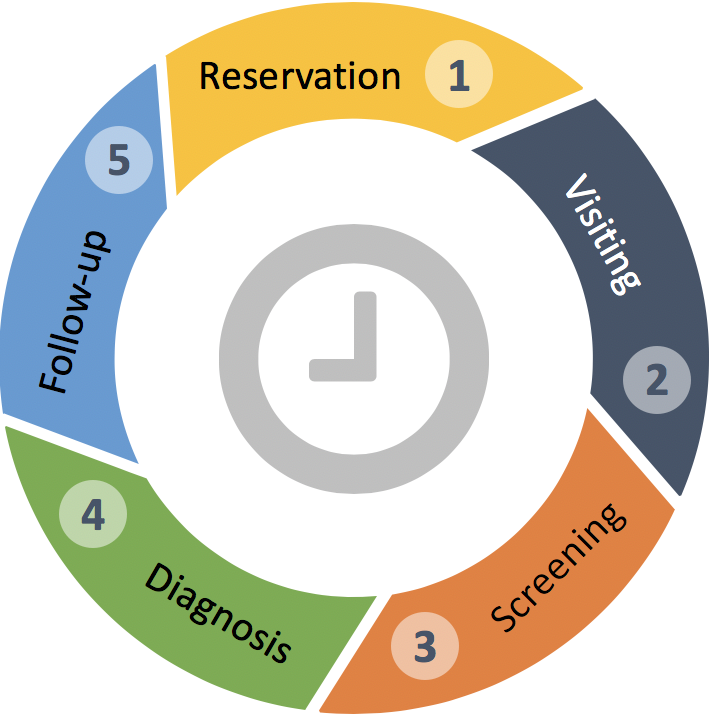
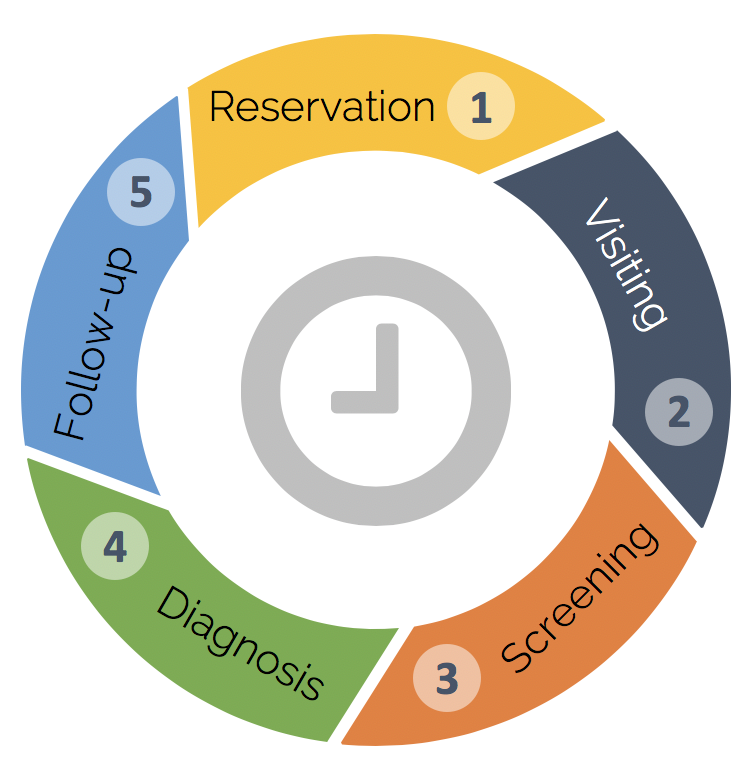
Added annotation to process

diff --git a/src/Product.js b/src/Product.js
@@ -9,6 +9,10 @@ class Product extends Component{
         return(
             <div className="Product">
                 <div className='top'>
+                    <div className="imageContainer">
+                        <img src={require('./img/product1.png')} />
+                        <img src={require('./img/product2.png')} />
+                    </div>
                     <h1> Dr. Lotus AI</h1>
                     <p>The artificial intelligence-assisted diagnosis system has realized the application of artificial intelligence and high-risk screening for breast cancer, breast image interpretation, rectal imaging interpretation and other artificial intelligence applications. The breast cancer imaging field has reached the world's leading level. </p>
                 </div>
@@ -18,7 +22,23 @@ class Product extends Component{
                     <Feature img = {require('./img/reliable.png')} title='Reliable Data' description='Uses top hospitals data obtained from the diagnoses and guidance of authoritative experts in the industry.'/>
                 </div>
                 <div className = 'process'>
-                    <img src={require('./img/cycle.png')} />
+                    <div className="left" >
+                        <div className="processContainer">
+                            <img src={require('./img/cycle.png')} style={{height:'400px', width:'400px'}}/>
+                            <div data-aos = "fade-right" className = "annotate1">
+                                <div className="text"> Remote visit, green transfer </div>
+                                <div className="line" />
+                            </div>
+                            <div data-aos = "fade-right" className = "annotate2">
+                                <div className="text"> Appointment Reminder Customer Service </div>
+                                <div className="line" />
+                            </div>
+                        </div>
+                    </div>
+                    <div className="right">
+                        <h2>Diagnosis Made Easy.</h2>
+                        <p> Lorem ipsum dolor sit amet, consectetur adipisicing elit. Beatae sapiente vero, dolor officia fuga adipisci fugiat ut iste dolorum quaerat quis quam eos libero? Reiciendis provident suscipit adipisci dignissimos necessitatibus.</p>
+                    </div>
                 </div>
             </div>
         )

diff --git a/src/Product.css b/src/Product.css
@@ -17,10 +17,14 @@
     flex-direction: column;
     justify-content: flex-end;
 }
+.top .imageContainer{
+    width:80%;
+    display:flex;
+}
 
 .top h1{
     font-size: 6vw;
-    color: var(--main-blue);
+    color: var(--bg-color);
 }
 
 .top p{
@@ -38,4 +42,86 @@
     height: 200px;
     display: flex;
     justify-content: center;
+}
+
+
+.process{
+    background-color: #FFF;
+    width:100%;
+    height: 500px;
+    display:flex;
+}
+
+.process .left{
+    width:55%;
+    display: flex;
+    justify-content: center;
+    align-items: center;
+}
+.processContainer{
+    width:500px;
+    height:80%;
+    position: relative;
+    display: flex;
+    justify-content: flex-end;
+}
+
+.processContainer .annotate1{
+    position:absolute;
+    bottom: 50px;
+    left: 0;
+    display:flex;
+    align-items: center;
+}
+
+.annotate1 .text{
+    width: 110px;
+    margin-right: 10px;
+}
+.annotate1 .line{
+    height: 0;
+    width: 30px;
+    border-bottom: 1px solid black;
+}
+
+.process .right{
+    text-align:left;
+    padding-right:5%;
+    width:45%;
+    height:100%;
+    display: flex;
+    flex-direction: column;
+    justify-content: center;
+}
+.processContainer .annotate2{
+    position:absolute;
+    top: 50px;
+    left: 0;
+    display:flex;
+    align-items: center;
+}
+
+.annotate2 .text{
+    width: 110px;
+    margin-right: 0px;
+}
+.annotate2 .line{
+    height: 0;
+    width: 30px;
+    border-bottom: 1px solid black;
+}
+
+.process .right{
+    text-align:left;
+    padding-right:5%;
+    width:45%;
+    height:100%;
+    display: flex;
+    flex-direction: column;
+    justify-content: center;
+}
+
+.process h2{
+    font-weight:800;
+    font-size: 2.5vw;
 }
